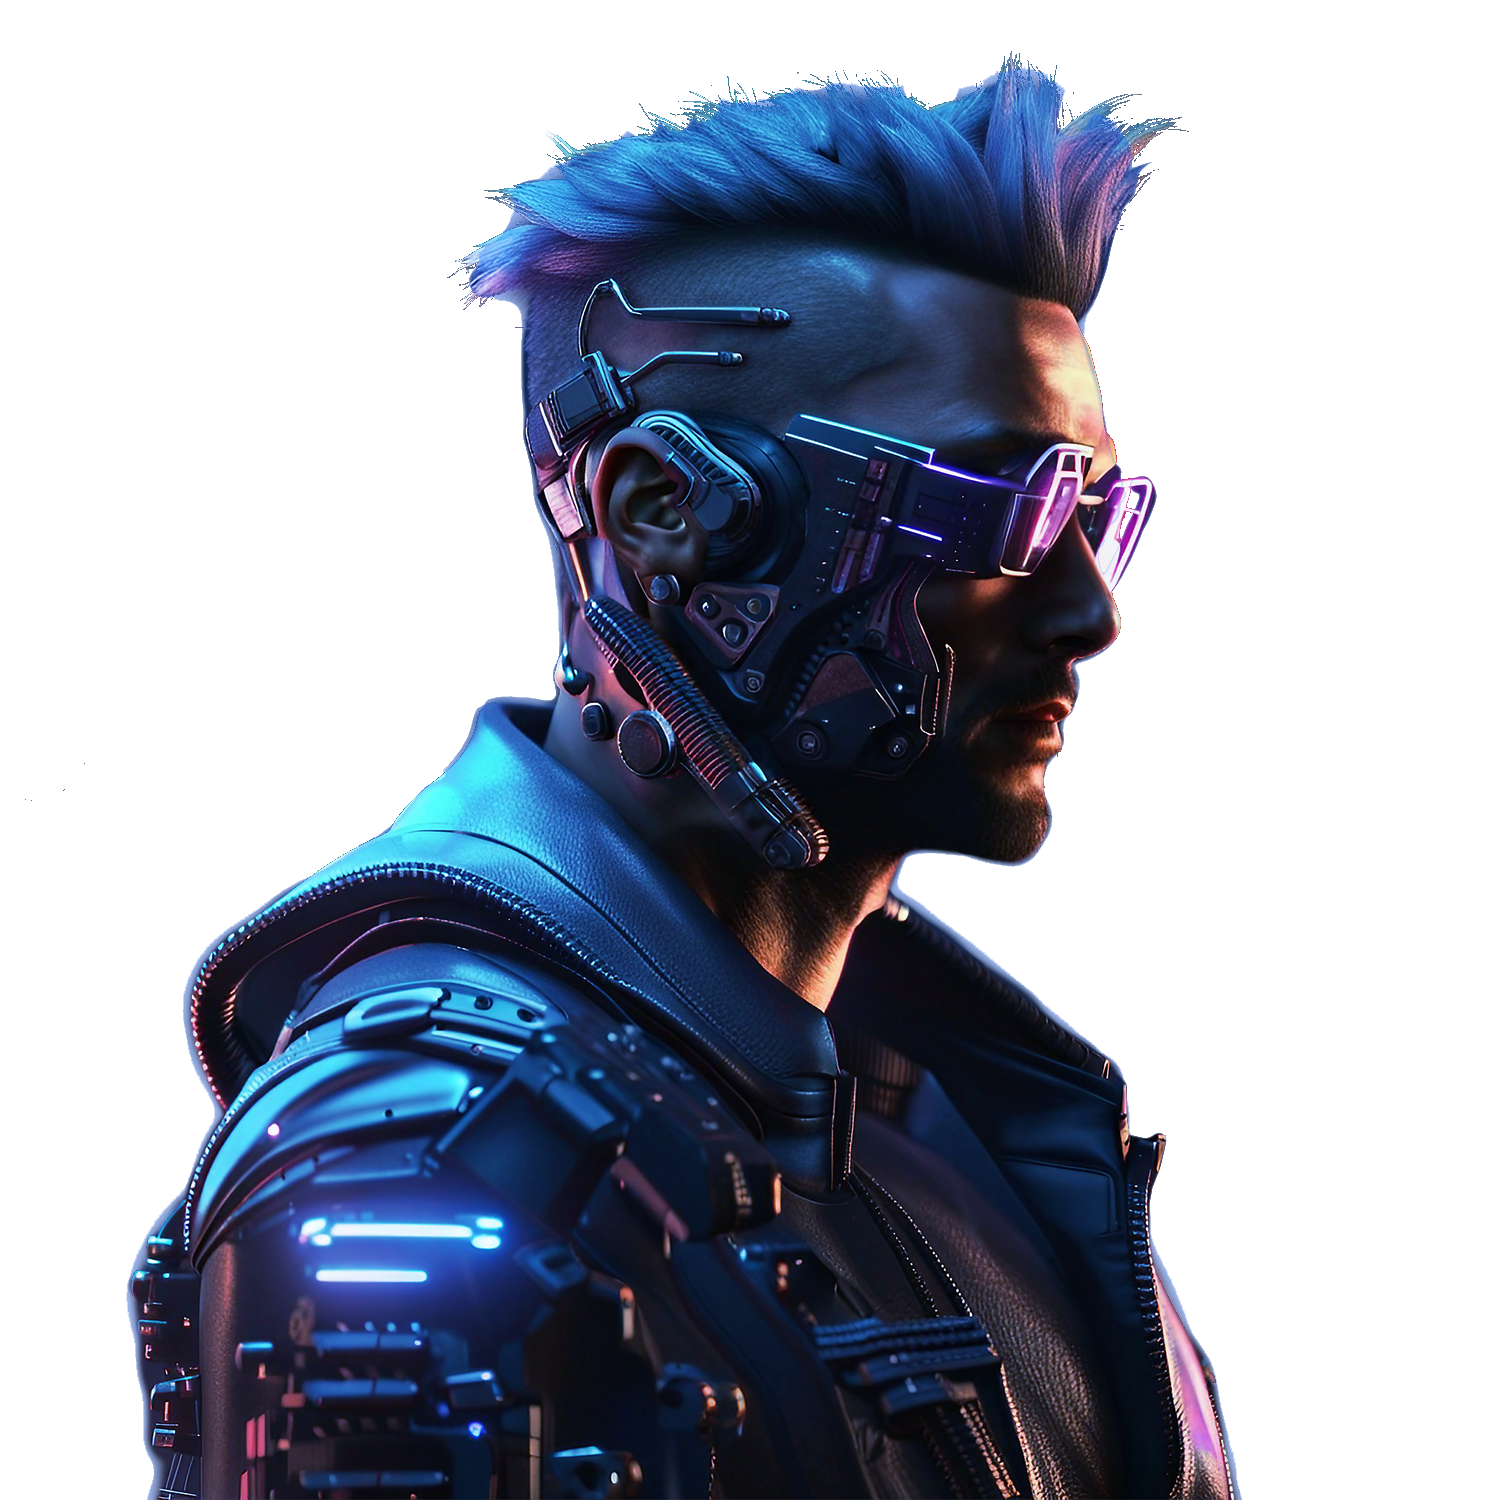
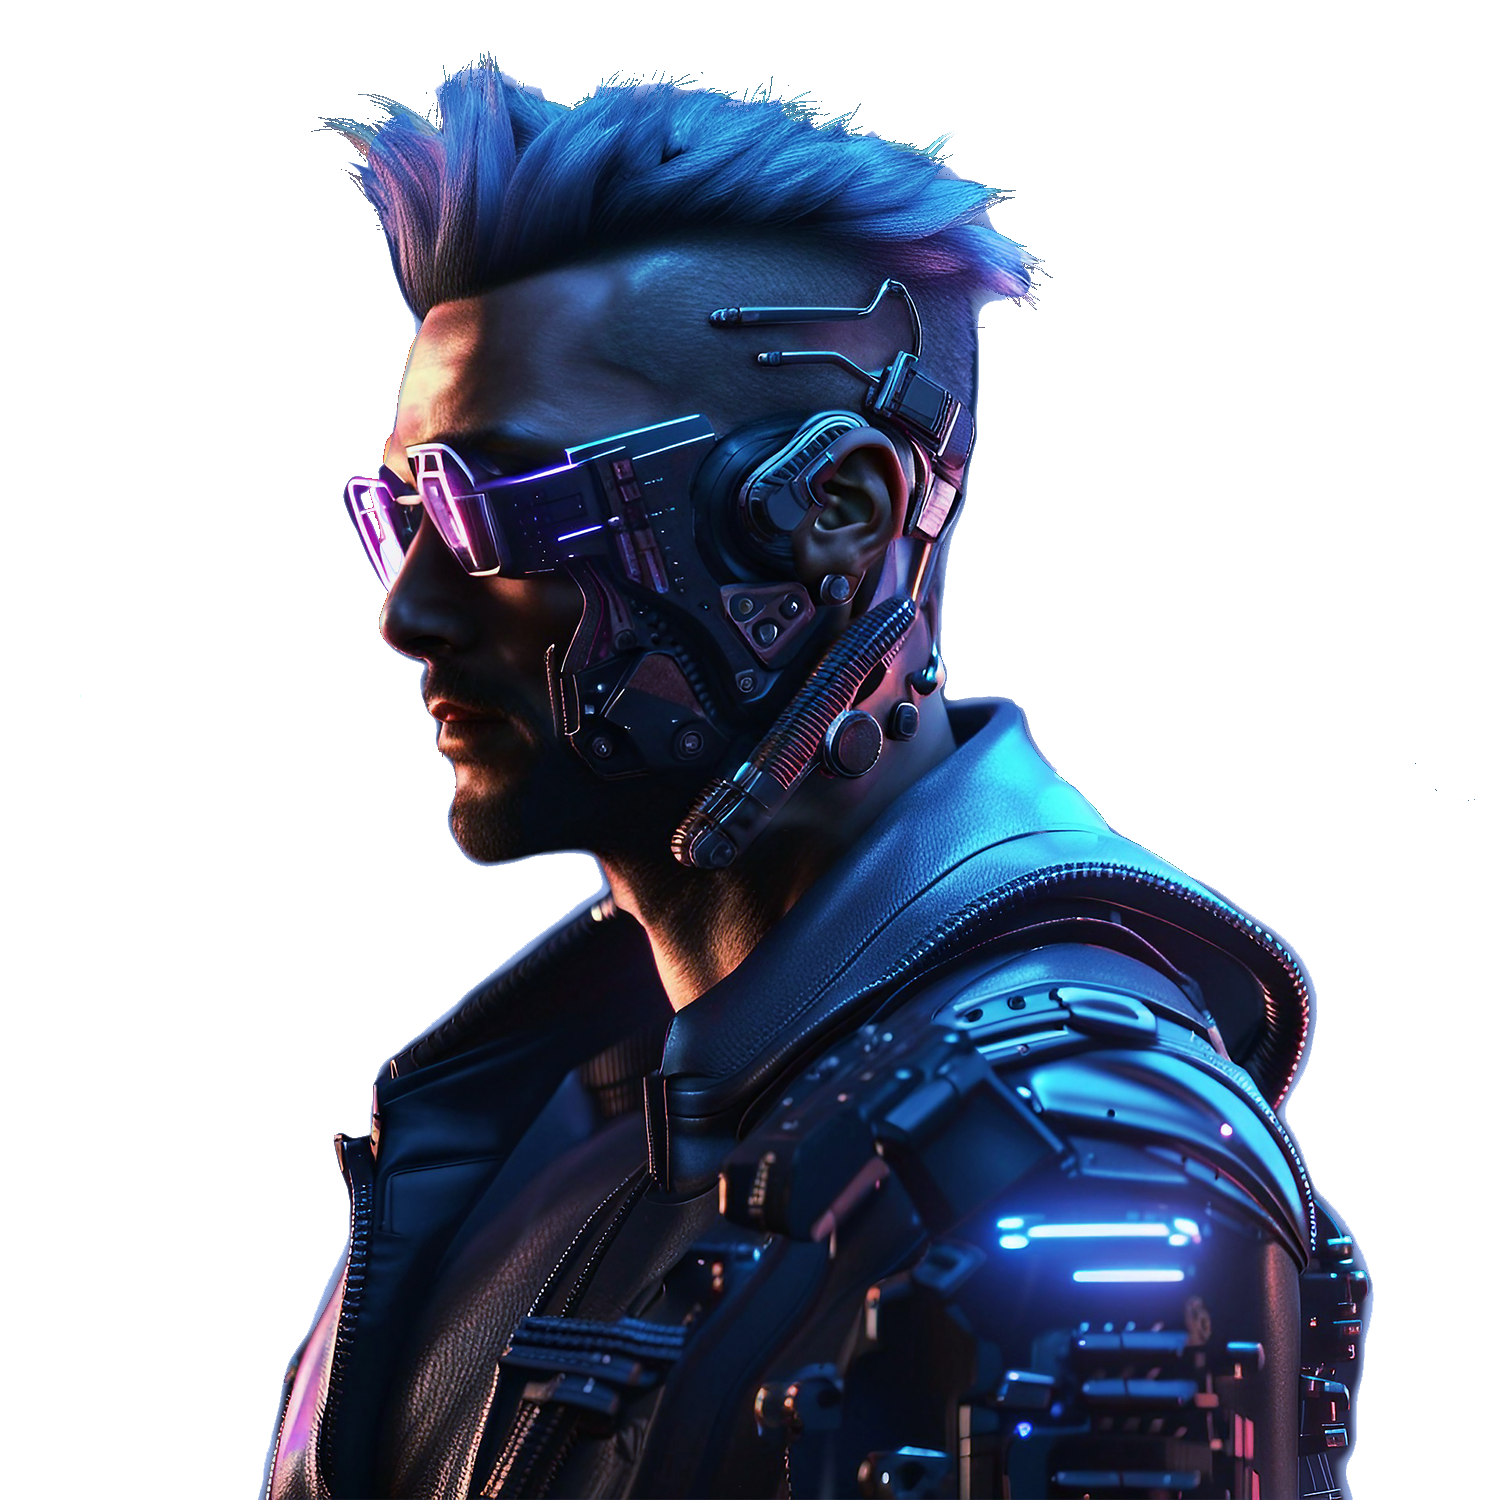
updated hero picture

diff --git a/app/HeroSection.tsx b/app/HeroSection.tsx
@@ -29,13 +29,13 @@ const HeroSection = ({ data }: Props) => {
           <ContactIcons socialMedia={social_media as SocialMedia} />
         </div>
       </div>
-      <div className="animate-fade-right">
+      <div>
         <Image
           priority={true}
           alt="hero_picture"
           width={500}
           height={800}
-          className="scale-x-[-1] absolute sm:right-0 sm:-top-20 h-auto w-[25rem] -top-12 -z-10 "
+          className="animate-fade-right absolute sm:right-0 sm:-top-20 h-auto w-[25rem] -top-12 -z-10 "
           src="/portfolio_hero.png"
         />
       </div>
